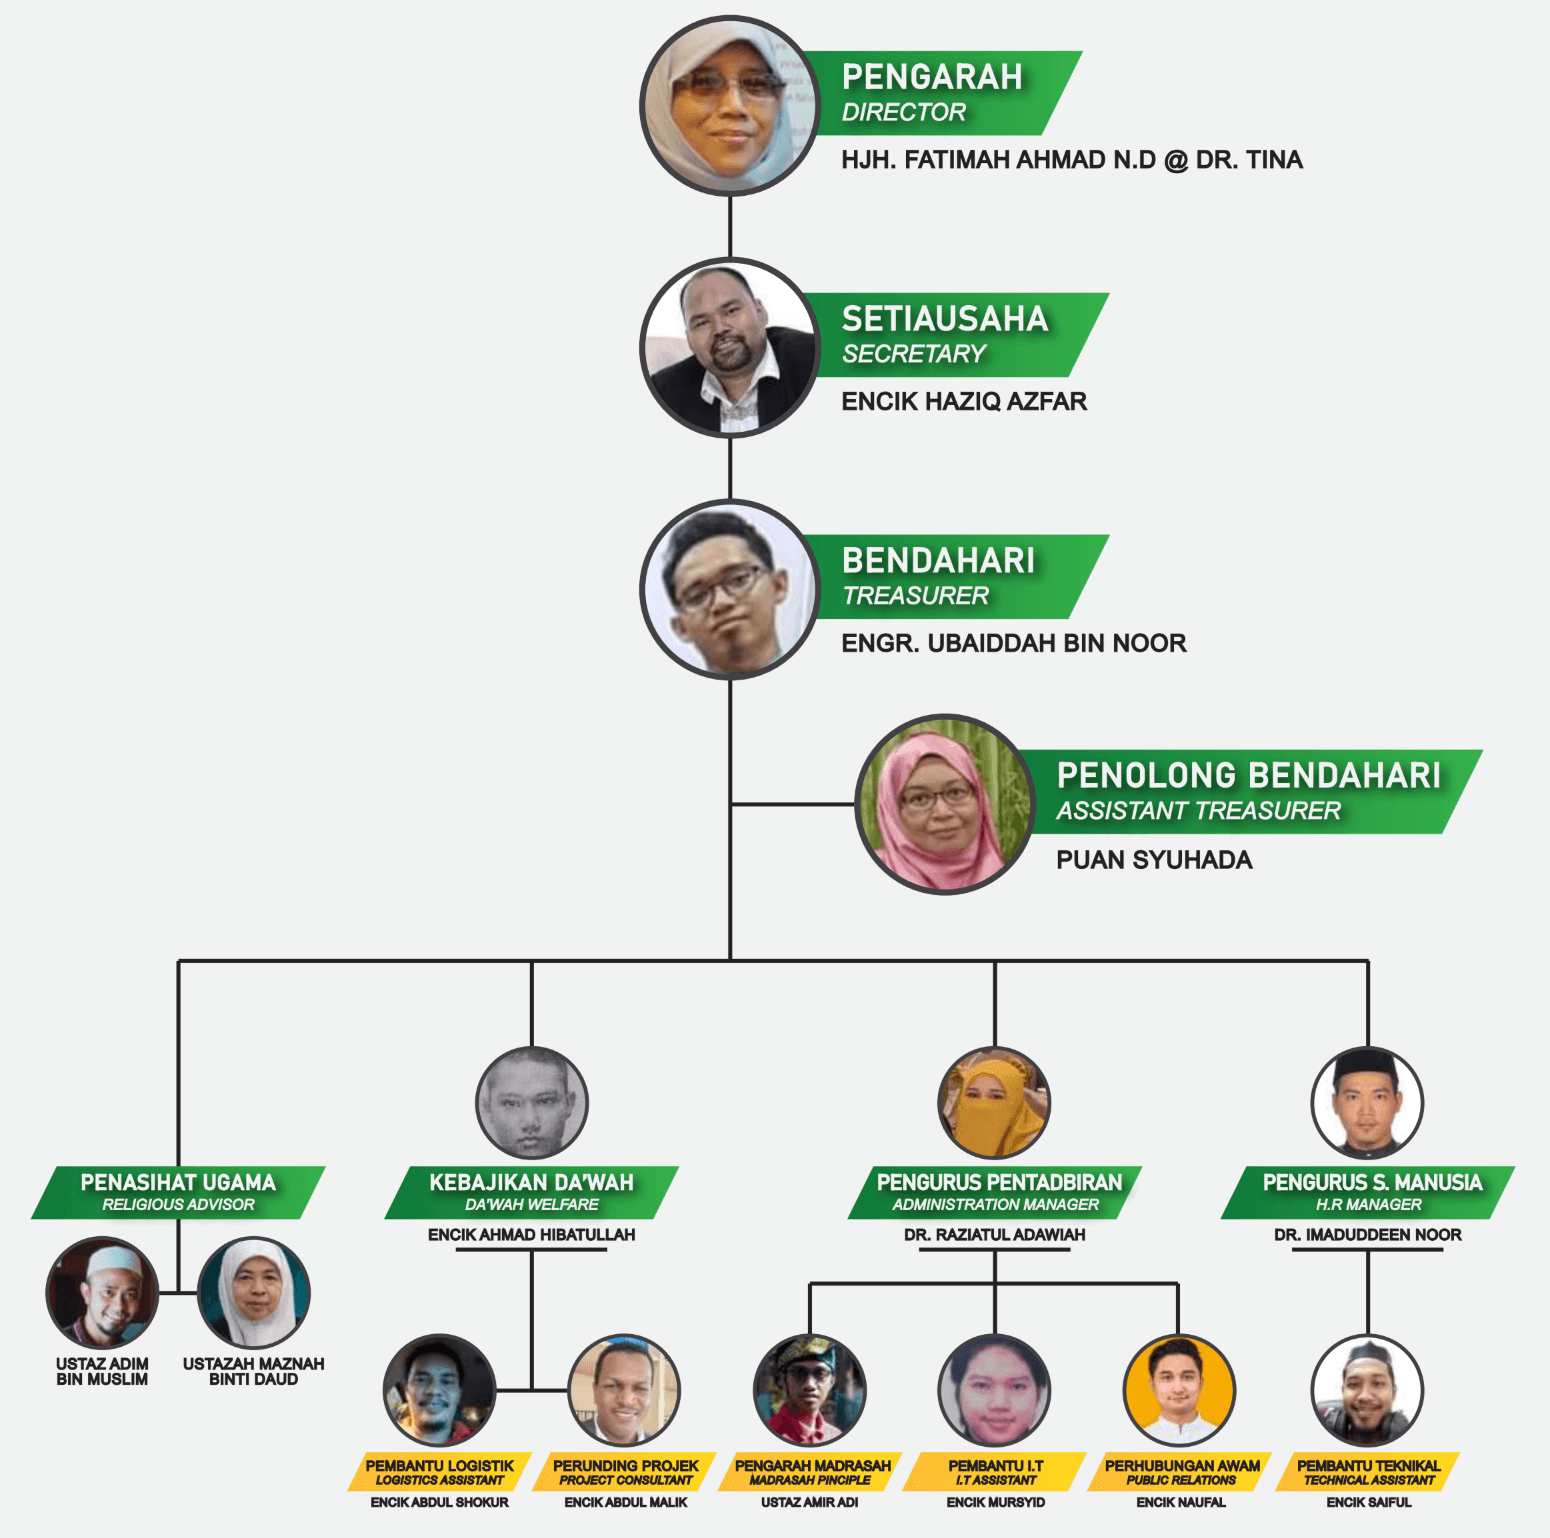
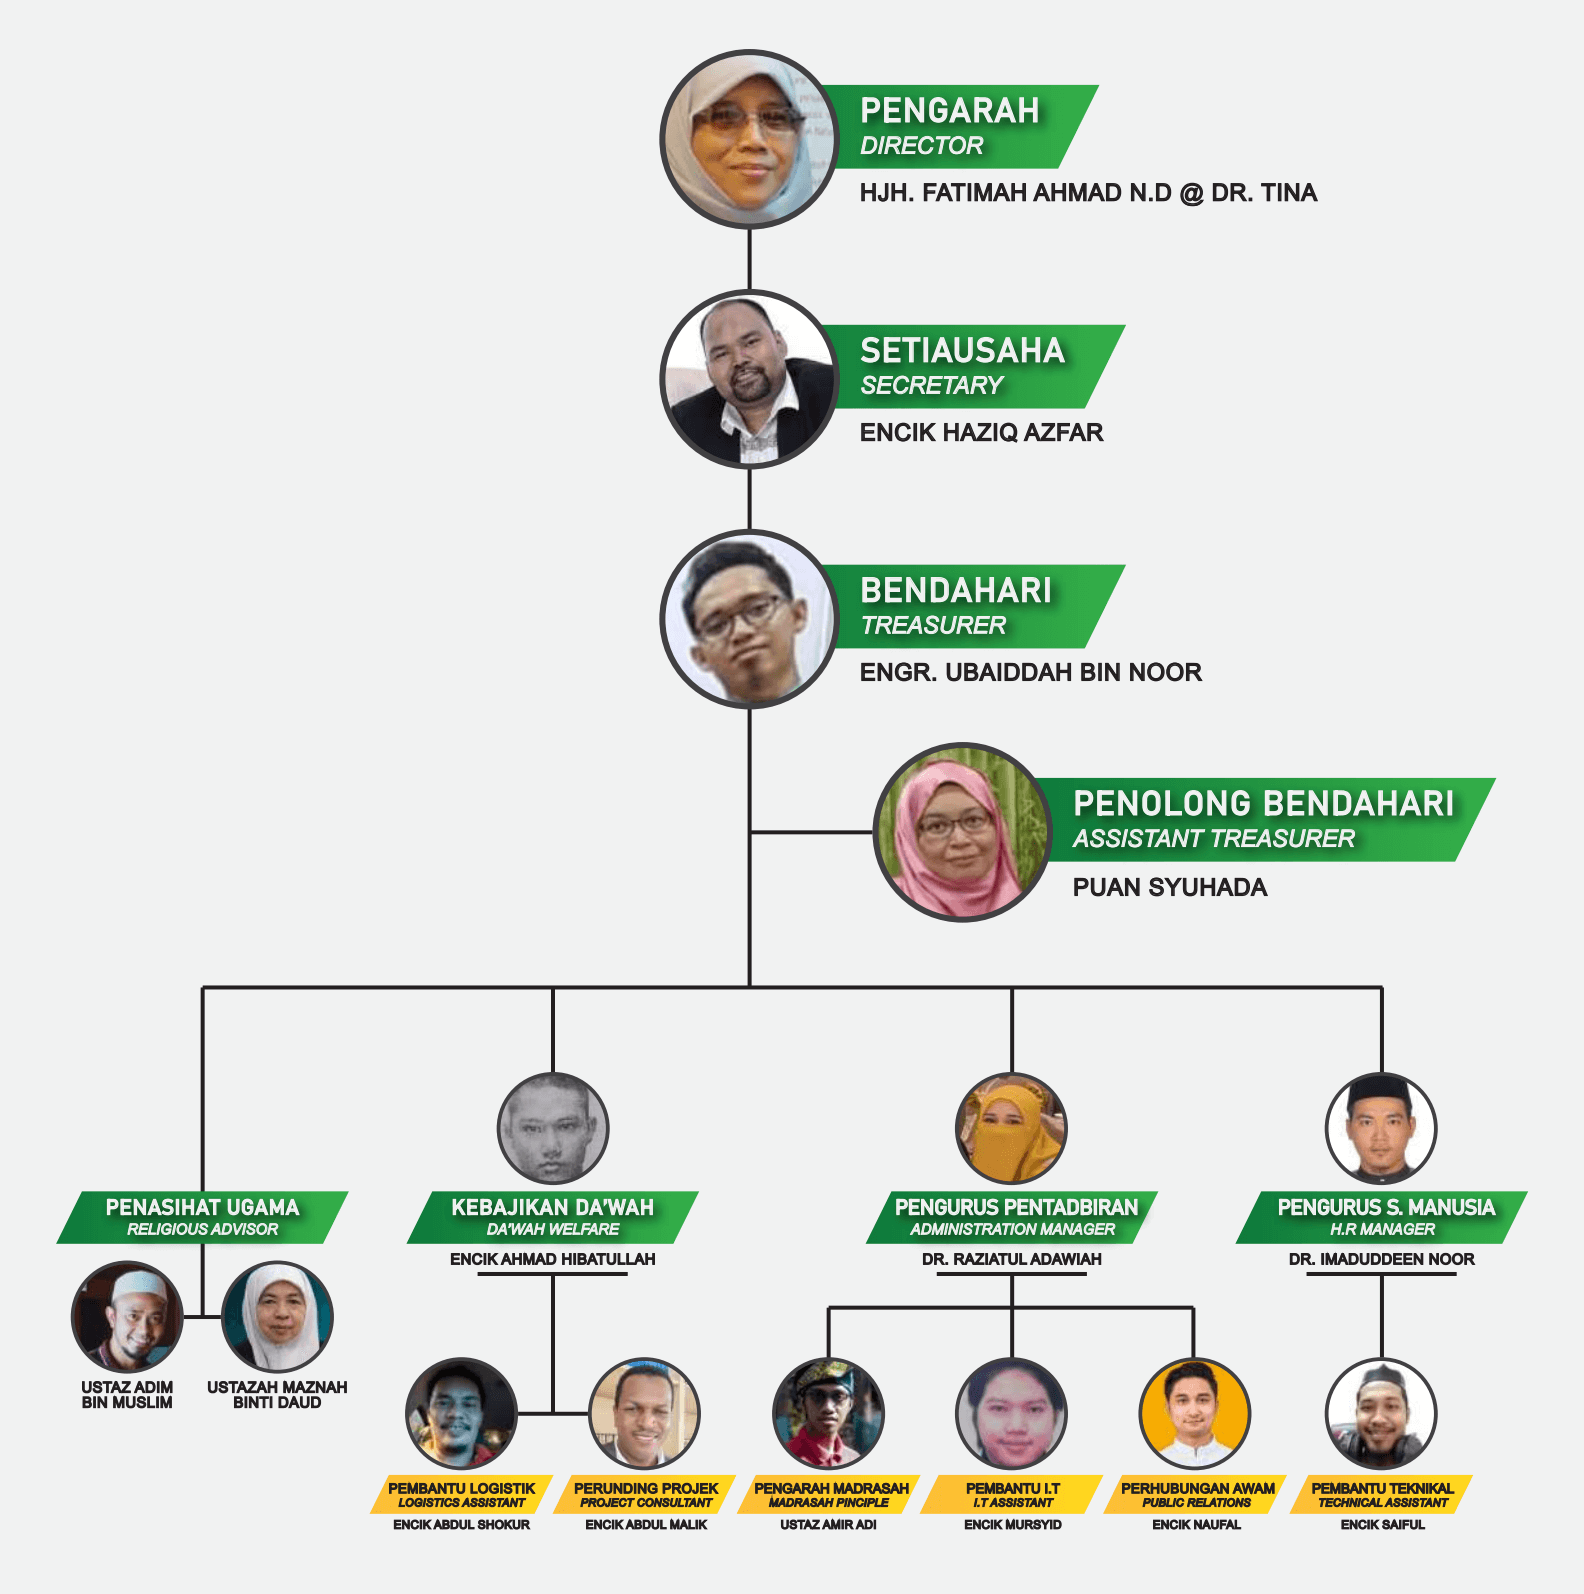
Added activities copy right / texts part one | Added Activity Optimised Image resources.

Changed region(s): [[0.0, 0.0, 0.991, 0.9987]]

diff --git a/index.html b/index.html
@@ -171,7 +171,7 @@
 </article><!-- Six -->
 <article id="six" class="post invert style3 alt">
     <div class="image">
-        <img src="images/activities.png" alt="activities" width="1400" height="788"></div>
+        <img src="images/activity1.png" alt="activities" width="1400" height="788"></div>
     <div class="content">
         <div class="inner">
             <header><h2><a href="activities.html">Aktivite</a></h2>
